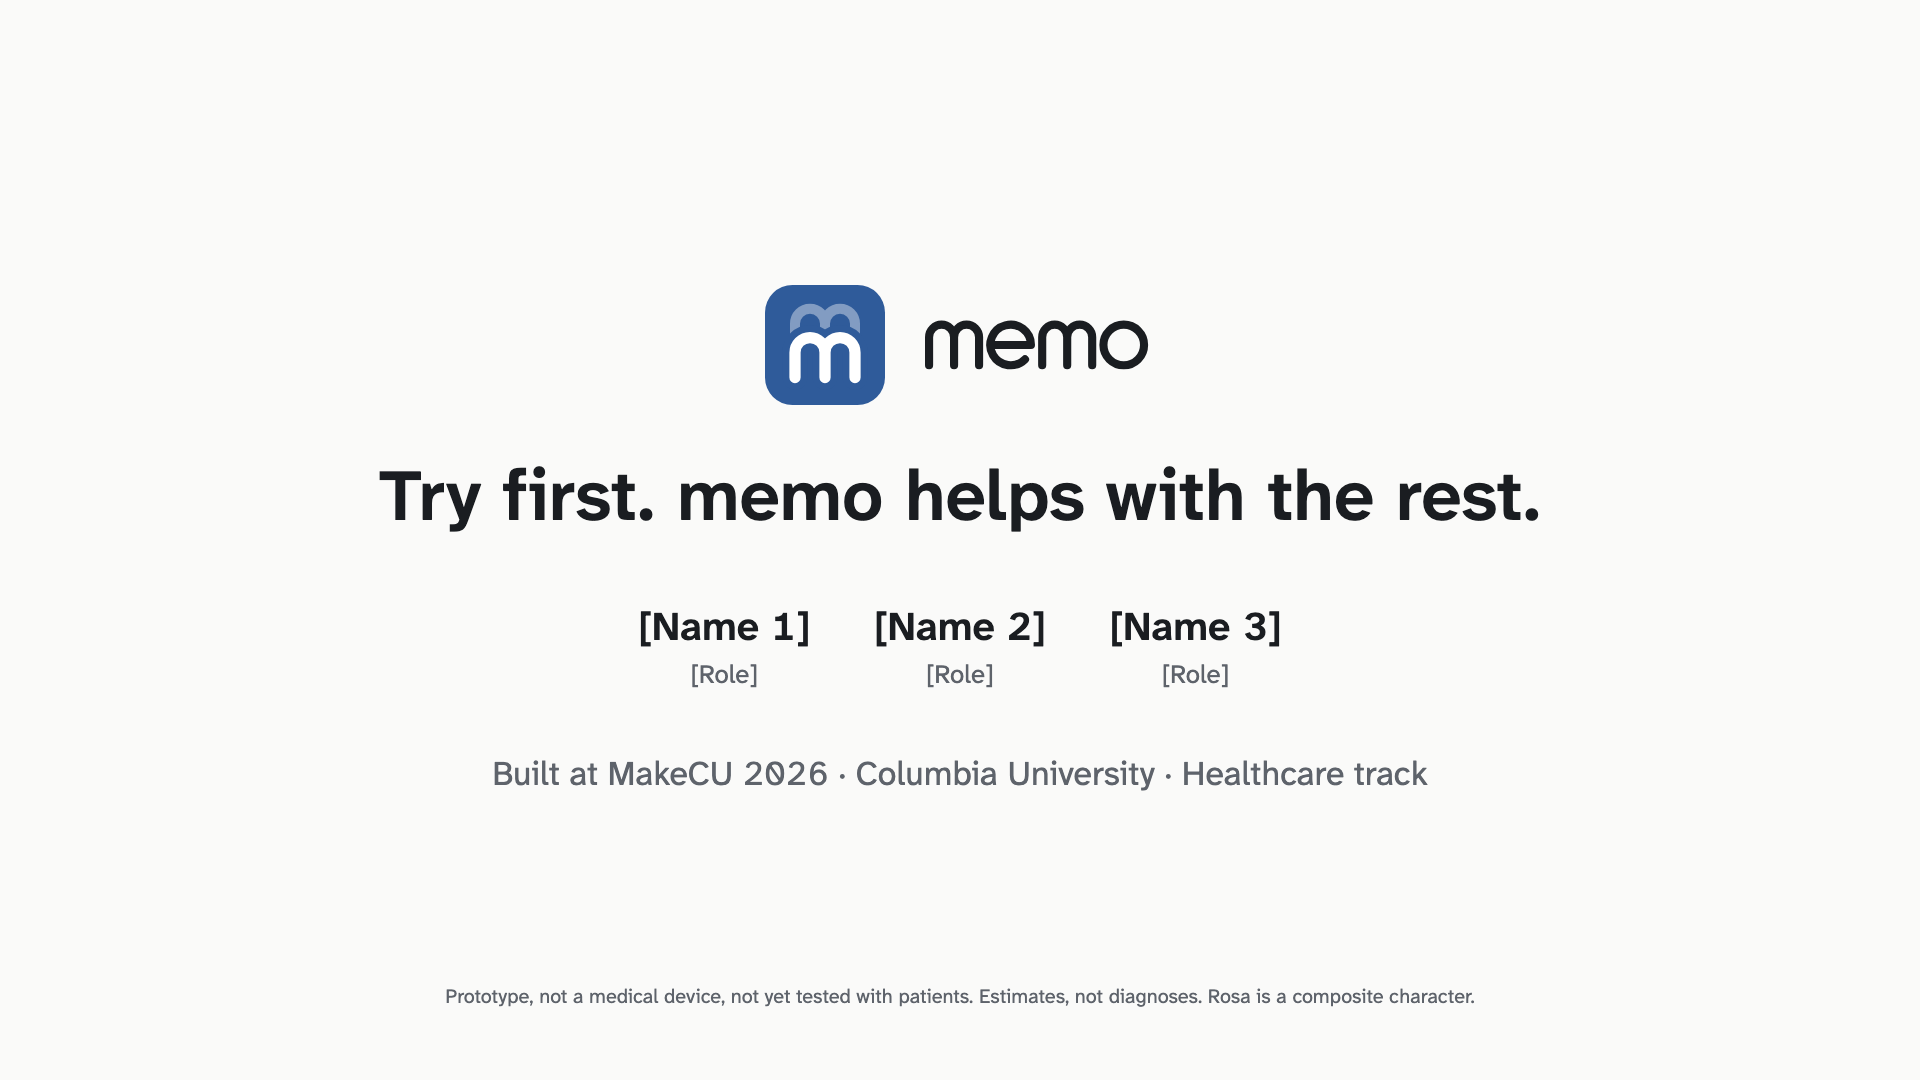
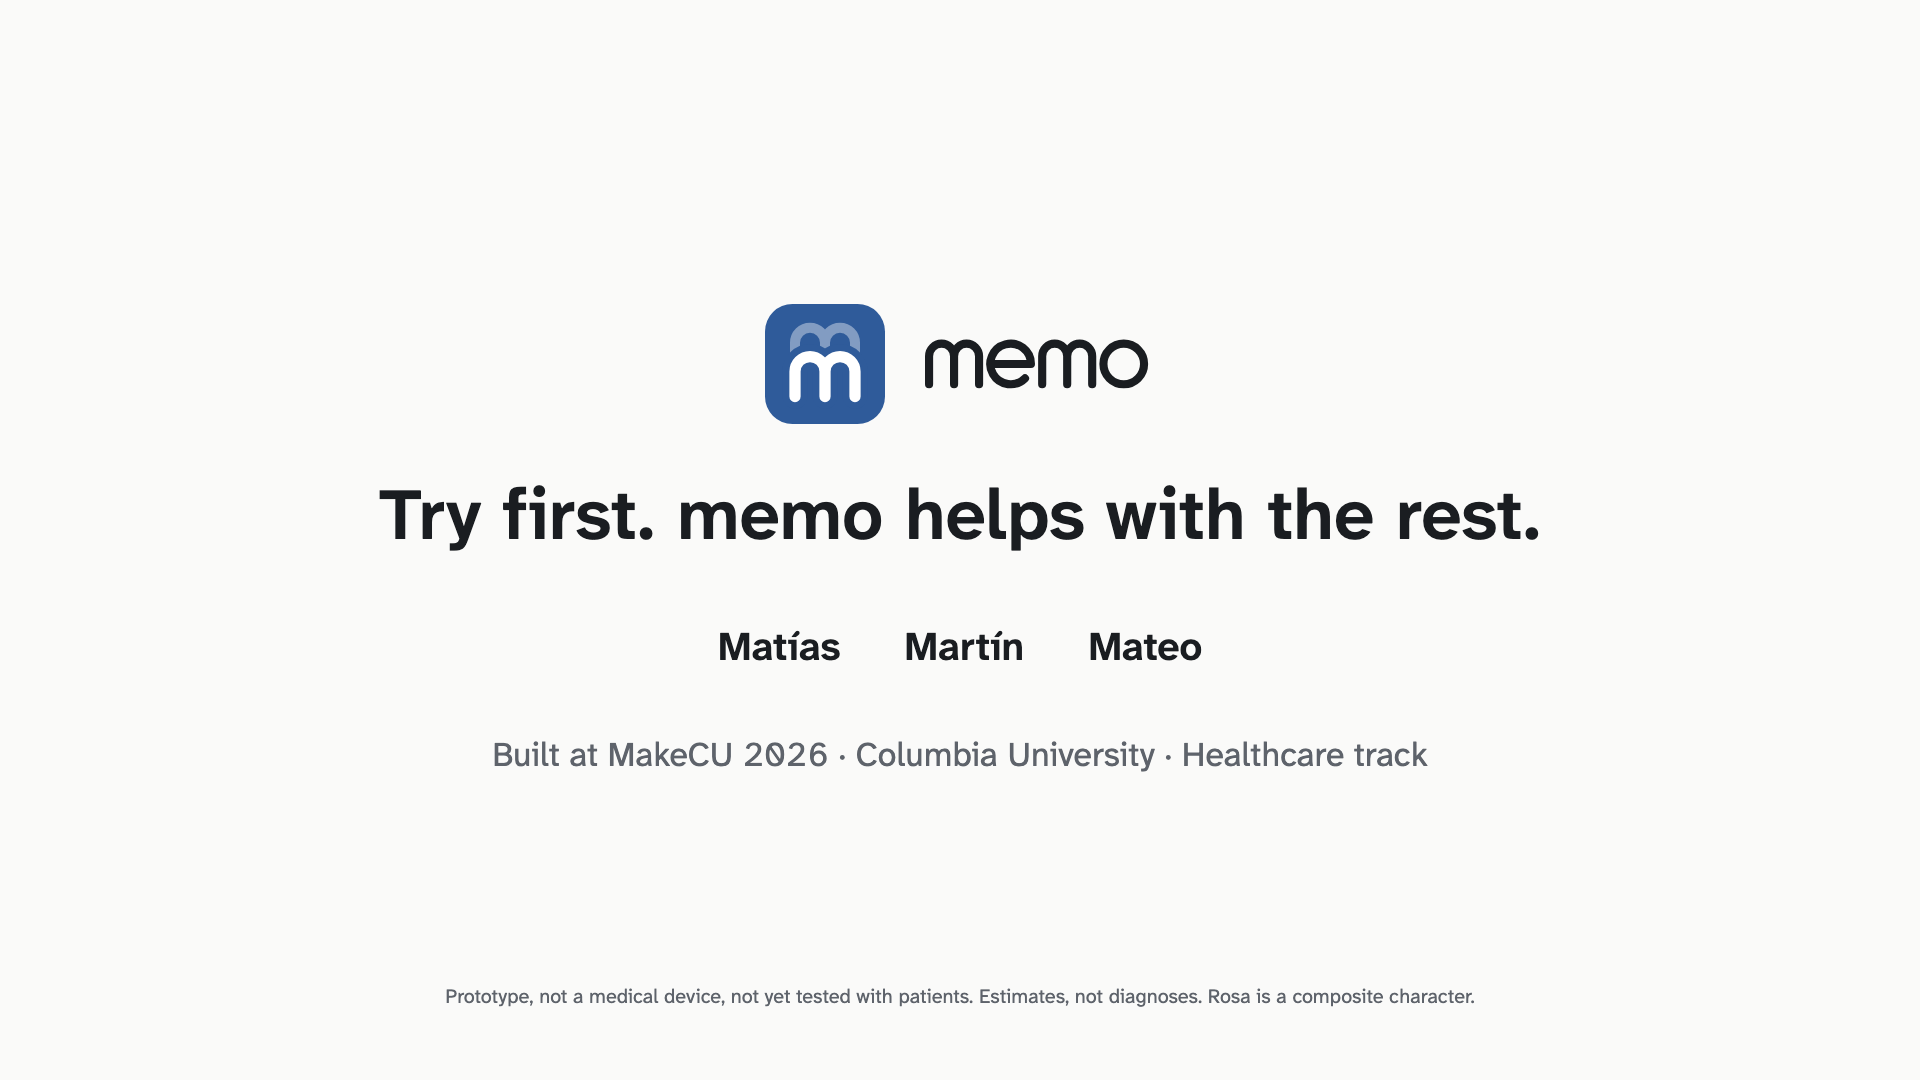
v3: refresh end card with final team names

diff --git a/video/studio/src/scenes/Close.tsx b/video/studio/src/scenes/Close.tsx
@@ -38,7 +38,7 @@ export const Close: React.FC = () => {
             <Lockup height={120} />
             <T size="h1" style={{ marginTop: space.s48 }}>{COPY.close.line}</T>
             <div style={{ display: 'flex', gap: space.s64, marginTop: space.s64 }}>
-              {TEAM.map((person) => <div key={person.name} style={{ textAlign: 'center' }}><T size="h3">{person.name}</T><T size="small" w={400} color={c.muted} style={{ marginTop: space.s8 }}>{person.role}</T></div>)}
+              {TEAM.map((person) => <div key={person.name} style={{ textAlign: 'center' }}><T size="h3">{person.name}</T>{person.role && <T size="small" w={400} color={c.muted} style={{ marginTop: space.s8 }}>{person.role}</T>}</div>)}
             </div>
             <T size="body" w={400} color={c.muted} style={{ marginTop: space.s64 }}>{COPY.close.event}</T>
           </div>
